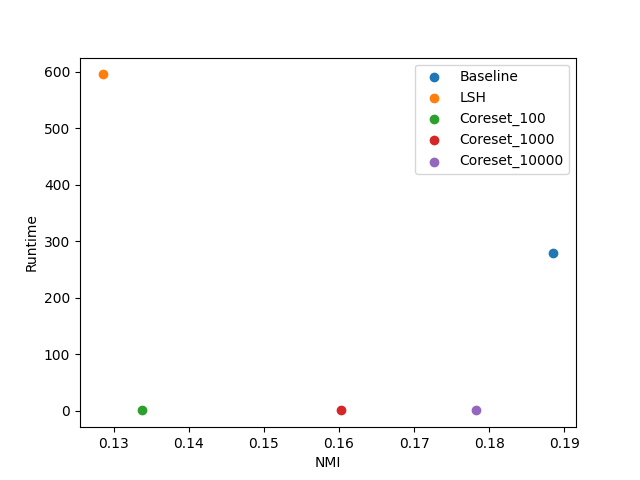
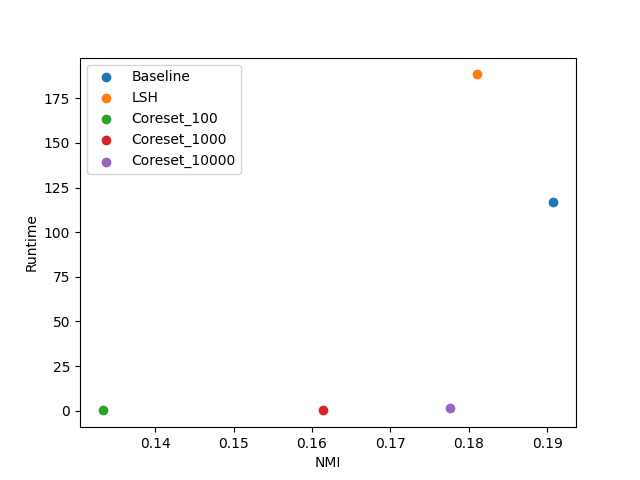
Added secondary convergence criterium. Necessary to find better parameters for LSH!!

diff --git a/LSHLloyd.py b/LSHLloyd.py
@@ -9,8 +9,8 @@ from LloydsAlgorithm import LloydsAlgorithm
 
 class LloydsAlgorithmLSH(LloydsAlgorithm):
     def __init__(self, k, data, true_labels, num_hash_tables=2, num_hashes_per_table=3, bucket_size=1.0, max_iter=100,
-                 debug=False):
-        super().__init__(k, data, true_labels, max_iter)
+                 debug=False, tol=1e-2):
+        super().__init__(k, data, true_labels, max_iter, tol=tol)
         self.num_assignments = None
         self.distances = None
         self.converged = False
@@ -67,16 +67,6 @@ class LloydsAlgorithmLSH(LloydsAlgorithm):
     def _initialize_centroids(self):
         return self.data[np.random.choice(self.data.shape[0], self.k, replace=False)]
 
-    def _update_centroids(self):
-        for i in range(self.k):
-            if len(self.clusters[i]) > 0:
-                self.centroids[i] = np.mean(self.clusters[i], axis=0)
-            else:
-                # Randomly reinitialize centroid if cluster is empty
-                self.centroids[i] = self.data[np.random.choice(self.data.shape[0])]
-                if self.debug:
-                    print(f"Cluster {i} is empty. Reinitializing centroid to {self.centroids[i]}")
-
     def _assign_clusters(self):
         temp_clusters = self.clusters
         self.clusters = {k: [] for k in range(self.k)}
@@ -105,7 +95,7 @@ class LloydsAlgorithmLSH(LloydsAlgorithm):
                 self.clusters[cluster].append(self.data[idx])
                 assigned_points.add(idx)
         if self.debug:
-            print(f"Total assigned points after handling remaining buckets: {len(assigned_points)}")
+            print(f"Total assigned points after handling remaining buckets: {len(remaining_points)}")
 
         if self.n_iter_ > 1:
             return self._convergence_check(temp_clusters), len(remaining_points)
@@ -117,10 +107,10 @@ class LloydsAlgorithmLSH(LloydsAlgorithm):
         for _ in tqdm(range(self.max_iter)):
             self._hash_centroids()
             self.converged, self.num_assignments = self._assign_clusters()
-            if self.converged:
+            relative_change_in_centroids = self._update_centroids()
+            if self.converged or (self.n_iter_ > 10 and relative_change_in_centroids < self.tol):
                 print('Converged after {} iterations'.format(self.n_iter_))
                 break
-            self._update_centroids()
             self.losses.append(self._compute_loss())
             self.n_iter_ += 1
             self.num_distance_calculations += (self.data.shape[0] - self.num_assignments) * self.k

diff --git a/LloydsAlgorithm.py b/LloydsAlgorithm.py
@@ -5,7 +5,8 @@ from tqdm import tqdm
 
 
 class LloydsAlgorithm:
-    def __init__(self, k, data, true_labels, max_iter, random_init=False):
+    def __init__(self, k, data, true_labels, max_iter, random_init=False, tol=1e-2):
+        self.tol = tol
         self.random_init = random_init
         self.k = k
         self.data = data
@@ -36,11 +37,16 @@ class LloydsAlgorithm:
         Update the centroids of the clusters to random data points if cluster is empty, otherwise update to the mean
         of the current cluster.
         """
+        change_in_centroids = 0
         for i in range(self.k):
             if len(self.clusters[i]) == 0:
+                change_in_centroids += 1e4
                 self.centroids[i] = self.data[np.random.choice(self.data.shape[0])]
             else:
+                temp_centroid = self.centroids[i].copy()
                 self.centroids[i] = np.mean(self.clusters[i], axis=0)
+                change_in_centroids += np.linalg.norm(temp_centroid - self.centroids[i])
+        return change_in_centroids/len(self.centroids)
 
     def _assign_clusters(self):
         """
@@ -76,10 +82,11 @@ class LloydsAlgorithm:
         start = time.time()
         for _ in tqdm(range(self.max_iter)):
             self.converged = self._assign_clusters()
-            if self.converged:
+            relative_change_in_centroids = self._update_centroids()
+
+            if self.converged or (self.n_iter_ > 10 and relative_change_in_centroids < self.tol):
                 print('Converged after {} iterations'.format(self.n_iter_))
                 break
-            self._update_centroids()
             self.losses.append(self._compute_loss())
             self.n_iter_ += 1
             self.num_distance_calculations += self.data.shape[0] * self.k

diff --git a/main.py b/main.py
@@ -54,7 +54,7 @@ if __name__ == '__main__':
                             "Coreset_10000": {"NMI": 0, "runtime": 0}}
 
     # Lloyds Algorithm
-    print("\n---------------LLOYD ALGORITHM---------------")
+    print("\n---------------LLOYD'S ALGORITHM---------------")
 
     # container to store results
     NMI = []
@@ -64,7 +64,7 @@ if __name__ == '__main__':
     num_iterations = []
 
     # run parameters for Lloyds Algorithm, setting random_init to false will use the first k data points as centroids
-    random_init = False
+    random_init = True
     num_rep = 5 if random_init else 1
 
     for _ in range(num_rep):
@@ -106,8 +106,8 @@ if __name__ == '__main__':
     num_iterations_lsh = []
 
     for _ in range(5):
-        lloyds_lsh = LloydsAlgorithmLSH(num_clusters, data, true_labels, num_hash_tables=3,
-                                        num_hashes_per_table=4, bucket_size=4.0, max_iter=n_iter,
+        lloyds_lsh = LloydsAlgorithmLSH(num_clusters, data, true_labels, num_hash_tables=2,
+                                        num_hashes_per_table=3, bucket_size=1.0, max_iter=n_iter,
                                         debug=False)
         lloyds_lsh.fit()
         NMI_lsh.append(lloyds_lsh.NMI)
